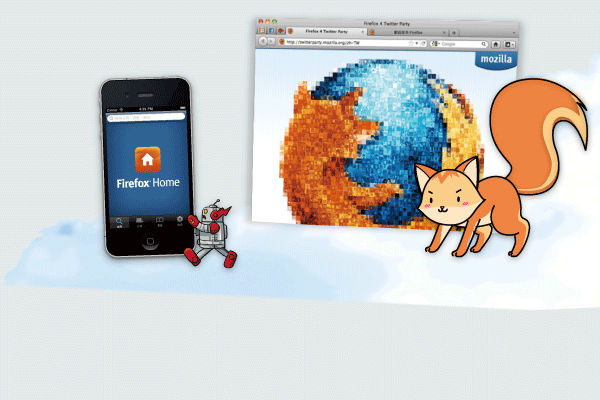
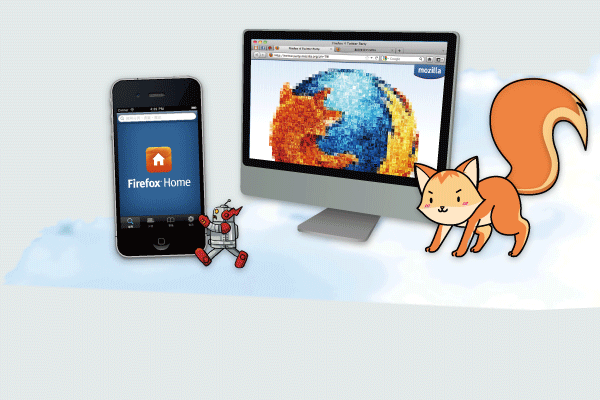
replace frontpage feature image for iOS, change layout body min-width to 930px based on 1024 resolution.
git-svn-id: http://svn.openfoundry.org/moztw@1189 9cc691a1-34e3-0310-a474-e8860ed5959b

Changed region(s): [[0.15, 0.03, 0.9, 0.69]]

diff --git a/css/base/template.css b/css/base/template.css
@@ -7,7 +7,7 @@
 
 /* Basic Structure */
 	body {
-		min-width: 610px;
+		min-width: 930px;
 		margin: 20px;
 	}
 
